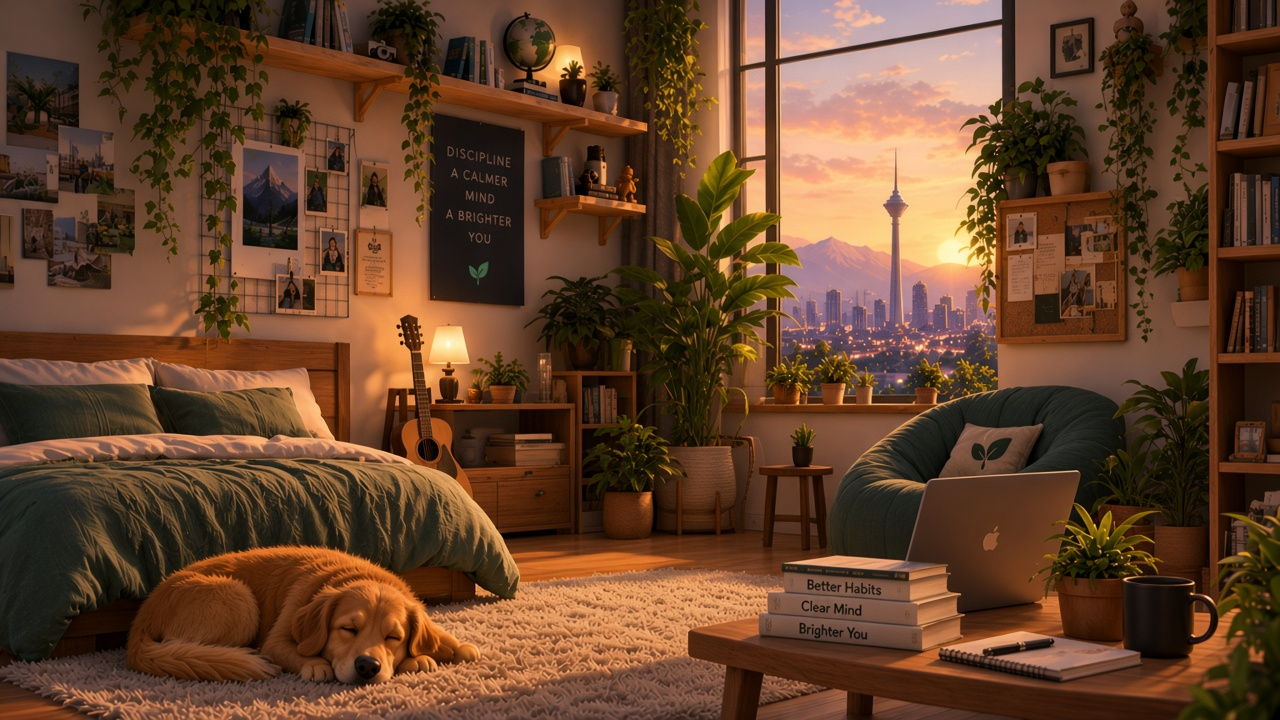
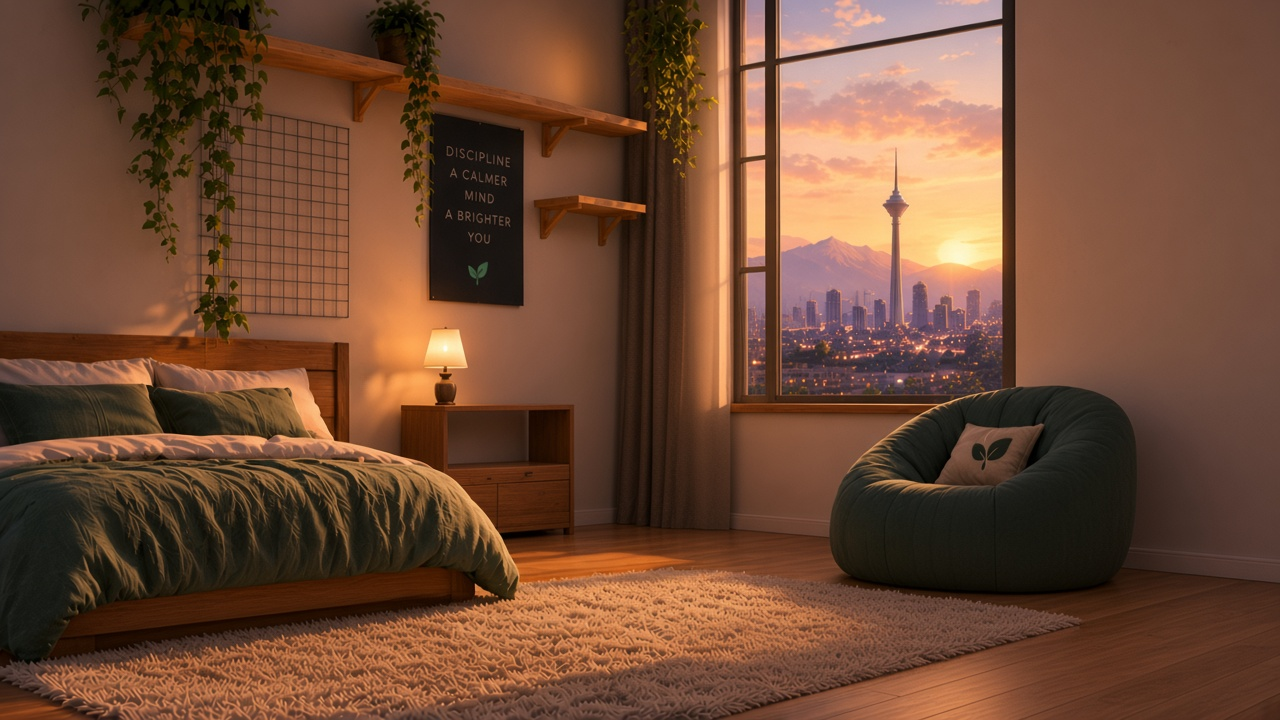
update 321

diff --git a/cpanel/assets/js/mana-path.js b/cpanel/assets/js/mana-path.js
@@ -105,4 +105,65 @@
   document.querySelectorAll(".mpath-task.is-done").forEach(function (el) {
     el.classList.add("is-pop");
   });
+
+  (function () {
+    var box = document.querySelector("[data-mpath-world]");
+    var room = document.querySelector(".mr-room");
+    var props = document.querySelector(".mr-props");
+    if (!box || !room) return;
+    var btns = Array.prototype.slice.call(box.querySelectorAll("[data-prop]"));
+    var key = "mpath-world-toggles";
+    var fa = "۰۱۲۳۴۵۶۷۸۹";
+    function toFa(n) {
+      return String(n).replace(/\d/g, function (d) { return fa[d]; });
+    }
+    function applySaved() {
+      try {
+        var saved = JSON.parse(sessionStorage.getItem(key) || "{}");
+        btns.forEach(function (btn) {
+          var id = btn.getAttribute("data-prop");
+          if (Object.prototype.hasOwnProperty.call(saved, id)) {
+            btn.classList.toggle("is-on", !!saved[id]);
+            btn.classList.toggle("is-off", !saved[id]);
+            btn.setAttribute("aria-pressed", saved[id] ? "true" : "false");
+          }
+        });
+      } catch (e) {}
+    }
+    function sync() {
+      var onMap = {};
+      var onCount = 0;
+      btns.forEach(function (btn) {
+        var id = btn.getAttribute("data-prop");
+        var on = btn.classList.contains("is-on");
+        onMap[id] = on;
+        if (on) onCount += 1;
+        document.querySelectorAll('.mr-prop[data-prop="' + id + '"]').forEach(function (img) {
+          img.classList.toggle("is-on", on);
+        });
+      });
+      var allOn = onCount === btns.length;
+      if (props) props.hidden = allOn;
+      var full = room.getAttribute("data-room-full");
+      var base = room.getAttribute("data-room-base");
+      if (allOn && full) room.src = full;
+      else if (base) room.src = base;
+      var bar = document.querySelector("[data-mpath-world-bar]");
+      if (bar) bar.style.width = Math.round(100 * onCount / Math.max(1, btns.length)) + "%";
+      var count = document.querySelector("[data-mpath-world-count]");
+      if (count) count.textContent = toFa(onCount) + " / " + toFa(btns.length) + " آیتم باز شده";
+      try { sessionStorage.setItem(key, JSON.stringify(onMap)); } catch (e) {}
+    }
+    applySaved();
+    sync();
+    btns.forEach(function (btn) {
+      btn.addEventListener("click", function () {
+        var on = !btn.classList.contains("is-on");
+        btn.classList.toggle("is-on", on);
+        btn.classList.toggle("is-off", !on);
+        btn.setAttribute("aria-pressed", on ? "true" : "false");
+        sync();
+      });
+    });
+  })();
 })();

diff --git a/cpanel/assets/css/mana-path.css b/cpanel/assets/css/mana-path.css
@@ -61,10 +61,33 @@ body.mpath-app .flash {
   max-width: 30%;
   object-fit: contain;
   object-position: bottom center;
-  z-index: 3;
+  z-index: 5;
   pointer-events: none;
   filter: drop-shadow(0 18px 22px rgba(20, 14, 8, .38));
 }
+.mr-props {
+  position: absolute;
+  inset: 0;
+  z-index: 2;
+  pointer-events: none;
+}
+.mr-prop {
+  position: absolute;
+  inset: 0;
+  width: 100%;
+  height: 100%;
+  object-fit: cover;
+  object-position: 48% 62%;
+  opacity: 0;
+  transition: opacity .35s ease;
+}
+.mr-prop.is-on { opacity: 1; }
+.mr-prop--plant { z-index: 1; }
+.mr-prop--books { z-index: 1; }
+.mr-prop--decor { z-index: 2; }
+.mr-prop--room { z-index: 2; }
+.mr-prop--pet { z-index: 3; }
+.mr-prop--desk { z-index: 4; }
 .mr-full .mr-atmosphere {
   position: absolute;
   inset: 0;
@@ -450,7 +473,7 @@ body.mpath-app .flash {
   margin: 0;
 }
 .mpath-goals-box { width: 14.4rem; }
-.mpath-world-box { width: 19.4rem; }
+.mpath-world-box { width: 22rem; }
 .mpath-mood-box { width: 20.6rem; }
 .mpath-mood-box h2,
 .mpath-world-box h2,
@@ -502,24 +525,35 @@ body.mpath-app .flash {
   margin: 0;
   padding: 0;
   display: grid;
-  grid-template-columns: repeat(5, 1fr);
+  grid-template-columns: repeat(6, 1fr);
   gap: .2rem;
   text-align: center;
-  font-size: .62rem;
+  font-size: .58rem;
+}
+.mpath-unlock-btn {
+  display: block;
+  width: 100%;
+  border: 0;
+  background: transparent;
+  color: var(--mp-muted);
+  font: inherit;
+  cursor: pointer;
+  padding: .1rem 0;
 }
 .mpath-lock {
   display: grid;
   place-items: center;
-  width: 38px;
-  height: 38px;
+  width: 34px;
+  height: 34px;
   margin: 0 auto .15rem;
   border-radius: 10px;
   background: #2a363c;
   font-size: .9rem;
 }
 .mpath-unlocks li { color: var(--mp-muted); }
-.mpath-unlocks .is-on { color: var(--mp-text); }
-.mpath-unlocks .is-on .mpath-lock { background: #2f7d6b; }
+.mpath-unlock-btn.is-on { color: var(--mp-text); }
+.mpath-unlock-btn.is-on .mpath-lock { background: #2f7d6b; }
+.mpath-unlock-btn.is-off .mpath-lock { filter: grayscale(1); opacity: .7; }
 .mpath-unlock-bar {
   height: 5px;
   background: #2a3a40;
@@ -846,7 +880,7 @@ body.mpath-app .flash {
   .mr-stage { height: min(46vh, 420px); }
   .mpath-panel { position: relative; max-height: none; inset: auto; }
   .mpath-intro { margin-top: .7rem; }
-  .mpath-unlocks { grid-template-columns: repeat(5, 1fr); }
+  .mpath-unlocks { grid-template-columns: repeat(6, 1fr); }
   .mpath-dock { justify-content: space-between; }
   .mpath-dock-go { width: 100%; text-align: center; margin: .2rem 0 0; }
 }

diff --git a/cpanel/pages/patient/mana_path.php b/cpanel/pages/patient/mana_path.php
@@ -150,7 +150,13 @@ ob_start();
 ?>
 <div class="mpath-shell" data-gender="<?= e($assets['gender']) ?>" data-mood="<?= (int) $moodNow ?>" data-state="<?= e($state) ?>">
   <div class="mr-full">
-    <img class="mr-room" src="<?= e($assets['room']) ?>" alt="اتاق ذهن">
+    <img class="mr-room" src="<?= e(mana_path_asset('room-full.png')) ?>" alt="اتاق ذهن" data-room-full="<?= e(mana_path_asset('room-full.png')) ?>" data-room-base="<?= e(mana_path_asset('room-bg.png')) ?>">
+    <div class="mr-props" hidden>
+      <?php foreach ($unlocks as $u): ?>
+        <?php if (empty($u['prop'])) { continue; } ?>
+        <img class="mr-prop mr-prop--<?= e((string) $u['id']) ?> is-on" data-prop="<?= e((string) $u['id']) ?>" src="<?= e(mana_path_asset((string) $u['prop'])) ?>" alt="">
+      <?php endforeach; ?>
+    </div>
     <img class="mr-buddy" src="<?= e($assets['avatar']) ?>" alt="">
     <div class="mr-atmosphere" aria-hidden="true"></div>
   </div>
@@ -593,7 +599,9 @@ ob_start();
   <div class="mpath-floor">
   <?php if (!empty($profile['intro_done'])): ?>
   <?php
-    $unlockShow = array_slice($unlocks, 0, 5);
+    $unlockShow = array_values(array_filter($unlocks, static function (array $u): bool {
+        return (string) ($u['id'] ?? '') === 'room' || !empty($u['prop']);
+    }));
     $unlockShowOn = 0;
     foreach ($unlockShow as $u) {
         if (!empty($u['on'])) {
@@ -616,16 +624,18 @@ ob_start();
     </div>
     <div class="mpath-world-box">
       <h2>محیط اتاق من</h2>
-      <ul class="mpath-unlocks">
+      <ul class="mpath-unlocks" data-mpath-world>
         <?php foreach ($unlockShow as $u): ?>
-          <li class="<?= !empty($u['on']) ? 'is-on' : 'is-off' ?>">
-            <span class="mpath-lock" aria-hidden="true"><?= !empty($u['on']) ? e((string) ($u['icon'] ?? '')) : '🔒' ?></span>
-            <?= e($u['label']) ?>
+          <li>
+            <button type="button" class="mpath-unlock-btn <?= !empty($u['on']) ? 'is-on' : 'is-off' ?>" data-prop="<?= e((string) $u['id']) ?>" aria-pressed="<?= !empty($u['on']) ? 'true' : 'false' ?>">
+              <span class="mpath-lock" aria-hidden="true"><?= e((string) ($u['icon'] ?? '🔒')) ?></span>
+              <?= e($u['label']) ?>
+            </button>
           </li>
         <?php endforeach; ?>
       </ul>
-      <p class="mpath-unlock-bar"><i style="width:<?= (int) round(100 * $unlockShowOn / max(1, count($unlockShow))) ?>%"></i></p>
-      <small><?= e(to_fa_digits((string) $unlockShowOn)) ?> / <?= e(to_fa_digits((string) count($unlockShow))) ?> آیتم باز شده</small>
+      <p class="mpath-unlock-bar"><i data-mpath-world-bar style="width:<?= (int) round(100 * $unlockShowOn / max(1, count($unlockShow))) ?>%"></i></p>
+      <small data-mpath-world-count><?= e(to_fa_digits((string) $unlockShowOn)) ?> / <?= e(to_fa_digits((string) count($unlockShow))) ?> آیتم باز شده</small>
     </div>
     <div class="mpath-mood-box">
       <h2>خلق و حال امروز</h2>
@@ -713,7 +723,7 @@ ob_start();
     </div>
   </div>
 </div>
-<script src="<?= e(url('/assets/js/mana-path.js')) ?>?v=20260923h"></script>
+<script src="<?= e(url('/assets/js/mana-path.js')) ?>?v=20260923r"></script>
 <?php
 $inner = ob_get_clean();
 render_patient_page('اتاق ذهن', $inner);

diff --git a/cpanel/includes/mana_path.php b/cpanel/includes/mana_path.php
@@ -247,14 +247,14 @@ function mana_path_unlock_items(array $world): array
     $window = (int) ($world['window'] ?? 0);
     $outfit = (int) ($world['outfit'] ?? 0);
     $items = [
-        ['id' => 'room', 'label' => 'اتاق خواب', 'icon' => '🛏', 'on' => true],
-        ['id' => 'plant', 'label' => 'گیاه', 'icon' => '🪴', 'on' => $plant >= 20, 'prop' => 'prop-plant.png'],
-        ['id' => 'desk', 'label' => 'میز کار', 'icon' => '🪑', 'on' => $desk >= 35, 'prop' => 'prop-desk.png'],
-        ['id' => 'books', 'label' => 'کتابخانه', 'icon' => '📚', 'on' => $desk >= 55, 'prop' => 'prop-books.png'],
-        ['id' => 'decor', 'label' => 'دکور', 'icon' => '🎨', 'on' => $outfit >= 1 || $light >= 40, 'prop' => 'prop-decor.png'],
+        ['id' => 'room', 'label' => 'اتاق خواب', 'icon' => '🛏', 'on' => true, 'prop' => 'layer-room.png'],
+        ['id' => 'plant', 'label' => 'گیاه', 'icon' => '🪴', 'on' => $plant >= 20, 'prop' => 'layer-plant.png'],
+        ['id' => 'desk', 'label' => 'میز کار', 'icon' => '🪑', 'on' => $desk >= 35, 'prop' => 'layer-desk.png'],
+        ['id' => 'books', 'label' => 'کتابخانه', 'icon' => '📚', 'on' => $desk >= 55, 'prop' => 'layer-books.png'],
+        ['id' => 'decor', 'label' => 'دکور', 'icon' => '🎨', 'on' => $outfit >= 1 || $light >= 40, 'prop' => 'layer-decor.png'],
         ['id' => 'music', 'label' => 'موسیقی', 'icon' => '🎵', 'on' => $light >= 45],
         ['id' => 'window', 'label' => 'پنجره / منظره', 'icon' => '🪟', 'on' => $window >= 40 || $light >= 50],
-        ['id' => 'pet', 'label' => 'حیوان خانگی', 'icon' => '🐶', 'on' => $plant >= 50, 'prop' => 'prop-pet.png'],
+        ['id' => 'pet', 'label' => 'حیوان خانگی', 'icon' => '🐶', 'on' => $plant >= 50, 'prop' => 'layer-pet.png'],
     ];
     if ($previewAllOn) {
         foreach ($items as &$item) {

diff --git a/cpanel/includes/mana_path_ui.php b/cpanel/includes/mana_path_ui.php
@@ -3,12 +3,12 @@ declare(strict_types=1);
 
 function mana_path_css_href(): string
 {
-    return url('/assets/css/mana-path.css') . '?v=20260923q';
+    return url('/assets/css/mana-path.css') . '?v=20260923r';
 }
 
 function mana_path_asset(string $file): string
 {
-    return url('/assets/img/mind-room/' . $file) . '?v=20260923q';
+    return url('/assets/img/mind-room/' . $file) . '?v=20260923r';
 }
 
 function mana_path_gender_assets(string $gender): array
